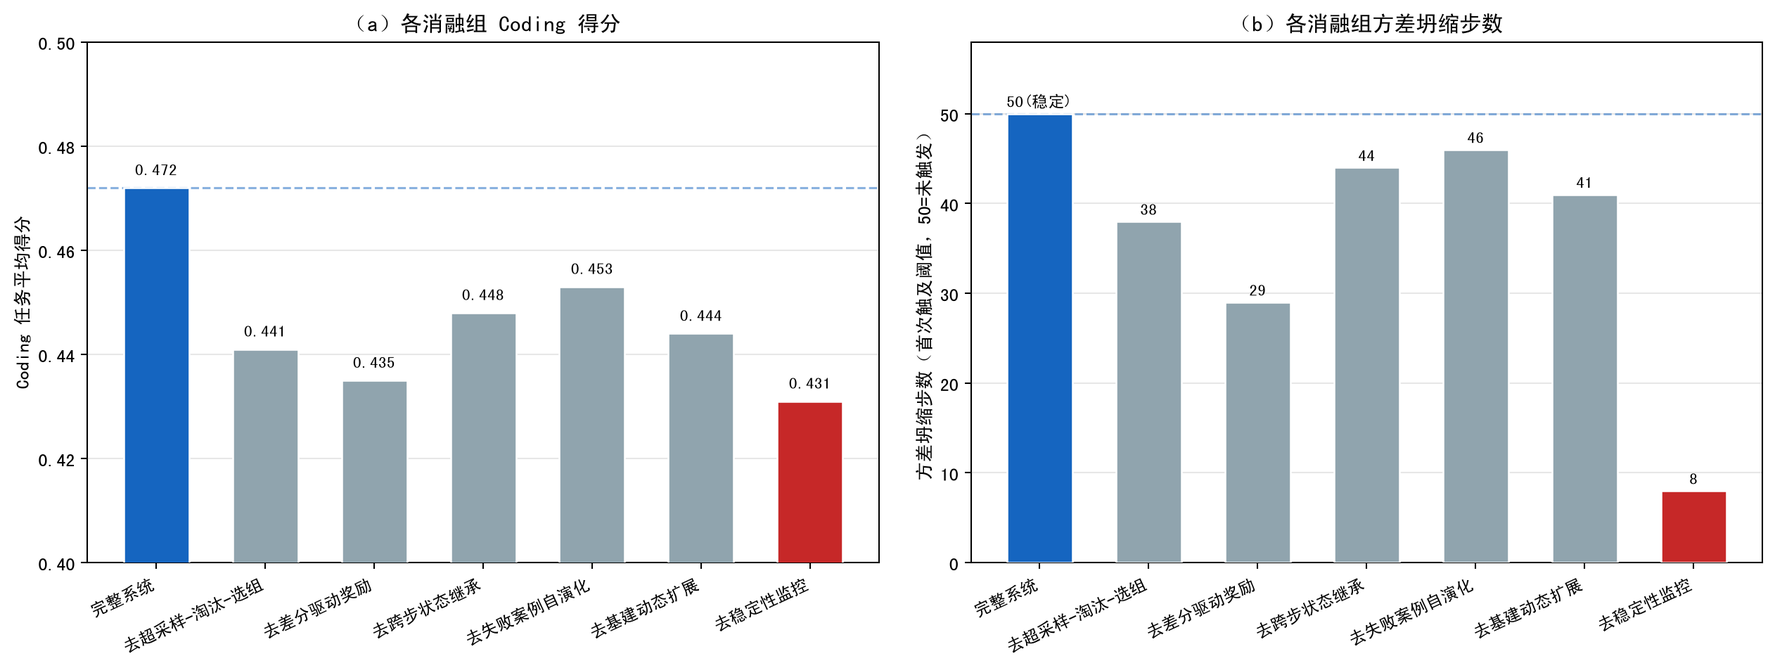
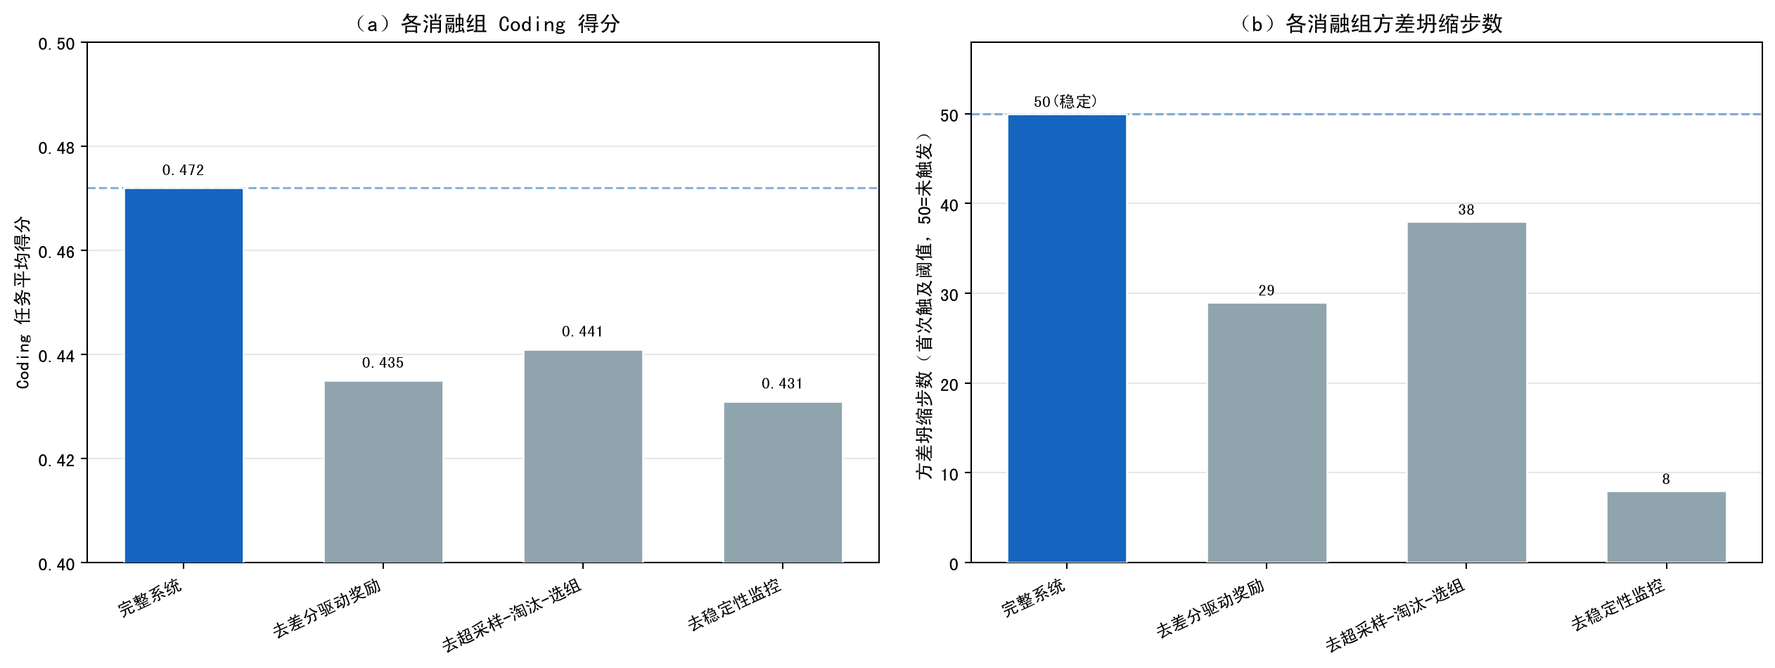
失败案例自演化融入全论文章节 + 消融精简为3组 + 评测集/环境补充
全章节融入新机制(失败案例驱动的评估器与基建自演化):
- 第1章: 研究内容五机制→六机制, 加贡献五
- 第2章: 新增2.6节"失败归因与评估器/基建自演化"(4篇新文献:
  self-debug/APE/ProTeGi/CREATOR), 现有研究分析加第4点空白, 基建扩展写为skill化
- 第3章: 加目标四 + 核心问题四
- 第7章: 工作总结/主要贡献加第五点
- 中英文摘要: 各加一句失败案例自演化

消融精简(用户要求"不用那么多"):
- 6组→3组核心(去差分奖励/去超采样选组/去稳定性监控)
- 第7章局限性加"资源限制无法逐一消融"说明
- 消融正文同步精简 + 注明其余机制受资源限制未逐一消融

评测节补充:
- 评测集: ClawEval官方纯文本类任务 + 自定义补充
- 评测环境: 腾讯云沙箱 + ClawEval评测工具

ref.bib: +4篇(self_debug/ape/apo_gradient/creator_tool), 共65引用
编译干净77页

diff --git a/master-thesis/latex/chap/chapter2_相关工作.tex b/master-thesis/latex/chap/chapter2_相关工作.tex
@@ -1,6 +1,6 @@
 \chapter{相关理论与研究现状}
 
-本章综述与本文直接相关的理论基础与研究现状：大语言模型智能体及其评测环境（2.1--2.2）、智能体强化学习与 GRPO（2.3--2.4）、自进化学习（2.5）、奖励建模与奖励作弊（2.6）、智能体强化学习系统与训练框架（2.7），并在此基础上分析现有研究的不足，明确本文的定位。
+本章综述与本文直接相关的理论基础与研究现状：大语言模型智能体及其评测环境（2.1--2.2）、智能体强化学习与 GRPO（2.3--2.4）、自进化学习（2.5）、失败归因与评估器/基建自演化（2.6）、奖励建模与奖励作弊（2.7）、智能体强化学习系统与训练框架（2.8），并在此基础上分析现有研究的不足，明确本文的定位。
 
 \section{大语言模型智能体}
 
@@ -24,6 +24,12 @@
 
 在交互式智能体层面，自进化也开始被探索：AgentGym\upcite{agentgym} 让智能体在多环境中以指令进化持续提升能力；WebRL\upcite{webrl} 为网页智能体构建自进化在线课程——从失败任务合成新指令并动态调整难度，是“任务自主生成驱动智能体训练”的代表性工作。自进化方向的综述\upcite{self_evolution_survey} 将这类系统归纳为“经验积累—自我反思—能力更新”的循环。总体而言，现有自进化工作在核心思想上与本文一致——基于历史经验自主产生新训练信号，但它们主要停留在\textbf{文本层面}：任务由语言模板演化生成，环境反馈以文本匹配或规则判分给出，未涉及交互式智能体的\textbf{环境状态}在训练轮次间的传递与继承。而后者恰是真实沙箱环境中自进化的关键——智能体在上轮产出的文件与配置上继续工作，任务与状态才能形成有意义的演化链。
 
+\section{失败归因与评估器、基建的自演化}
+
+除任务与策略外，评估器（打分与提问的提示词）与工具集/基建也是可被自主演化的对象，这一方向的研究可归纳为三条线索。其一，\textbf{失败归因与自我调试}：Reflexion\upcite{reflexion} 让智能体以语言化反思定位失败原因并在后续尝试中修正；Self-Debug\upcite{self_debug} 教会大模型通过阅读执行结果解释并调试自身生成的代码，说明大模型具备对失败案例做根因分析的能力。其二，\textbf{提示词自动优化}：APE\upcite{ape} 将提示词搜索形式化为大模型驱动的指令生成与筛选，达到人类水平的提示词工程；ProTeGi\upcite{apo_gradient} 以自然语言“梯度”与束搜索迭代改写提示词，验证了提示词可依据失败样本被自动、增量地修订。其三，\textbf{工具与技能的自主创建}：Voyager\upcite{voyager} 在开放环境中将成功经验固化为可复用的技能库并持续扩充；CREATOR\upcite{creator_tool} 让大模型在缺乏现成工具时自行创建工具以解决问题；Toolformer\upcite{toolformer} 则表明工具使用能力可被模型自监督地内化。这些工作分别证明了失败可被大模型归因、提示词可被自动优化、工具/技能可被自主创建。
+
+然而，现有工作大多在\textbf{推理或部署阶段}、针对单个任务孤立地进行反思、调试或工具创建，尚未将“失败归因—提示词/基建演化”整合进\textbf{强化学习训练闭环}，也很少区分失败的根因究竟在\textbf{模型}（策略的规划、工具使用、方案选择失误）还是在\textbf{基建}（沙箱、工具、执行环境的缺陷）——而这一区分恰恰决定了应当修正提示词还是扩展基建。本文正是针对这一空白，在训练过程中周期性收集失败案例，由大模型综合任务意图、轨迹与环境证据做出模型/基建的归因，进而分别演化评估器提示词或将缺失的基建能力总结为可复用的技能（skill）予以补齐，使评估器与基建随训练持续自我完善。
+
 \section{奖励建模与奖励作弊}
 
 奖励的可信性是强化学习的核心问题。RLHF\upcite{instructgpt} 以人工偏好训练奖励模型，但奖励模型本身可能被策略过度优化——Goodhart 效应使得策略学会欺骗代理奖励而非真正完成任务\upcite{concrete_problems,reward_overoptimization}。Skalse 等\upcite{reward_hacking_def} 对奖励作弊（reward hacking）给出了形式化定义与刻画，指出其根源在于代理奖励与真实目标的对齐偏差。可验证方向上，GSM8K 的验证器\upcite{verifier_gsm8k} 与过程奖励模型 PRM\upcite{prm_step_by_step} 以最终答案或逐步判分提供确定性信号，但仅适用于答案可验证的封闭任务。RLAIF\upcite{rlaif} 与 LLM-as-a-judge\upcite{llm_judge} 将裁判推广到开放任务，生成式验证器\upcite{gen_verifier} 进一步将奖励建模统一为下一个 token 预测。然而近期研究警示了奖励信号的脆弱性：Spurious Rewards\upcite{spurious_rewards} 发现在部分基座上随机奖励也能产生与真实奖励相当的提升，说明奖励信号与能力提升之间的因果关系远比预期复杂。对交互式智能体而言，问题更加尖锐：若裁判看到的只是智能体自述的轨迹文本，模型会迅速学会在轨迹中谎报完成，而裁判无从核实。如何让奖励锚定\textbf{环境真实状态}而非智能体叙事，是奖励可信化的核心问题，当前尚未被充分解决——本文以确定性状态差分为取证依据的奖励机制正是针对这一问题。
@@ -42,7 +48,9 @@
 
 （3）自进化仍停留在文本层面，任务由模板演化生成、反馈以规则判分，缺乏交互环境状态在训练轮次间的继承，任务难度与环境实际状态脱节。
 
-本文正是面向这一空白，以多智能体协作合成数据、差分驱动奖励、跨步自进化闭环（含沙箱状态继承与稳定性监控），构建一套自进化强化学习系统。
+（4）失败归因与提示词/工具自演化虽已有研究，但多在部署阶段针对单任务孤立进行，未整合进训练闭环，也很少区分失败根因在模型还是基建，缺乏据此分别演化评估器提示词或补齐基建能力的机制。
+
+本文正是面向这一空白，以多智能体协作合成数据、差分驱动奖励、跨步自进化闭环（含沙箱状态继承与稳定性监控）、以及失败案例驱动的评估器与基建自演化，构建一套自进化强化学习系统。
 
 \section{本章小结}
 

diff --git a/master-thesis/latex/chap/chapter6_实验设计.tex b/master-thesis/latex/chap/chapter6_实验设计.tex
@@ -123,7 +123,7 @@
 \section{模型能力评测}
 \label{sec:exp_eval}
 
-除训练过程指标外，本节以离线评测衡量训练前后模型的实际能力变化。评测仅在 coding 任务集上进行，采用与训练一致的沙箱环境与差分驱动打分口径，从两个维度对比三个模型：（1）未训练的基座模型；（2）以真实回流数据训练的模型（精调基线）；（3）以本文自进化系统自产生数据训练的模型。两个维度为 coding 任务平均得分（能力）与生成多样性（以 pass@k 意义下的任意通过率 any\_pass\_rate 近似——至少一次通过的任务占比越高，说明模型输出越多样、能覆盖越多任务）。结果如图~\ref{fig:eval_compare} 所示。
+除训练过程指标外，本节以离线评测衡量训练前后模型的实际能力变化。评测集选用 ClawEval 官方评测集中的纯文本类任务，并辅以少量自定义补充任务，以贴合本文以文本工具调用为主的训练设定；评测环境为腾讯云沙箱配合 ClawEval 评测工具，与训练所用的沙箱环境和差分驱动打分口径保持一致。评测从两个维度对比三个模型：（1）未训练的基座模型；（2）以真实回流数据训练的模型（精调基线）；（3）以本文自进化系统自产生数据训练的模型。两个维度为 coding 任务平均得分（能力）与生成多样性（以 pass@k 意义下的任意通过率 any\_pass\_rate 近似——至少一次通过的任务占比越高，说明模型输出越多样、能覆盖越多任务）。结果如图~\ref{fig:eval_compare} 所示。
 
 从能力维度看（图~\ref{fig:eval_compare}a）：本文自进化数据训练的模型 coding 得分为 0.401，\textbf{明显高于未训练基座（0.370）}，验证了自进化训练确实带来可观测的能力提升；同时其提升幅度\textbf{小于以真实回流数据训练的模型（0.428）}。
 
@@ -142,32 +142,26 @@
 
 \section{消融实验}
 
-为分离各机制的贡献，本文设计六组消融实验，每次去掉一个核心机制，在相同配置下对比 coding 任务平均得分（能力指标）与方差坍缩步数（稳定性指标，定义为组内奖励标准差首次触及自动终止阈值的训练步，未触及则记为 50 即全程稳定）。结果如图~\ref{fig:ablation} 所示。
+囿于算力与时间资源，本文无法对系统涉及的每一个机制与超参逐一开展独立消融以精确量化其贡献，因此仅选取三个最具代表性的核心机制做消融验证：差分驱动奖励、超采样-淘汰-选组、稳定性监控。每次去掉一个机制，在相同配置下对比 coding 任务平均得分（能力指标）与方差坍缩步数（稳定性指标，定义为组内奖励标准差首次触及自动终止阈值的训练步，未触及则记为 50 即全程稳定）。结果如图~\ref{fig:ablation} 所示。
 
 需要说明的是，本实验中所有参数（包括训练步数、超采样量、选组数等超参）均以演示系统可运行性为目的而设定，并非经调优的最优取值；消融数值反映各机制在当前配置下的相对贡献，绝对数值在参数调优后可能变化。
 
 \begin{figure}[htbp]
     \centering
     \includegraphics[width=\textwidth]{figures/fig_fig15_ablation_zh.png}
-    \caption{六组消融实验结果：coding 得分（左）与方差坍缩步数（右）}
+    \caption{消融实验结果：coding 得分（左）与方差坍缩步数（右）}
     \label{fig:ablation}
 \end{figure}
 
 各组结果分析如下：
 
+\textbf{去差分驱动奖励}（得分 0.435，坍缩步 29）：裁判仅依据模型自述打分，奖励作弊空间增大，梯度中混入虚假信号，组内奖励分布被污染，方差坍缩较早发生，得分下降明显，验证了差分取证对抗作弊的核心作用。
+
 \textbf{去超采样-淘汰-选组}（得分 0.441，坍缩步 38）：不再筛选高信号组，全部 $S \times n$ 轨迹均进入 GRPO 梯度，退化组（全对/全错）拉低了每步的梯度信号质量，训练收敛变慢且方差较早坍缩，验证了选组对训练信号密度的贡献。
-
-\textbf{去差分驱动奖励}（得分 0.435，坍缩步 29）：裁判仅依据模型自述打分，奖励作弊空间增大，梯度中混入虚假信号，组内奖励分布被污染，方差坍缩最早发生（仅 29 步），得分下降最明显，验证了差分取证对抗作弊的核心作用。
-
-\textbf{去跨步状态继承}（得分 0.448，坍缩步 44）：每步从全新沙箱开始，提问者无法在上一轮产出基础上追问，任务的跨步连贯性下降，但单步采样与训练逻辑未受影响，因此评测下降相对有限，稳定性也较好，说明状态继承主要贡献于闭环质量而非单步信号。
-
-\textbf{去失败案例自演化}（得分 0.453，坍缩步 46）：提示词与基建在训练全程固定不变，系统性失败无法被修复，随轮次推进积累的无效轨迹逐渐拖低整体质量，得分略低于完整系统，稳定性也稍早受损，验证了评估器与基建自演化对系统长期健康的贡献。
-
-\textbf{去基建动态扩展}（得分 0.444，坍缩步 41）：基建类失败无法被修复（仅提示词可更新），沙箱缺少工具或依赖的任务在后续轮次仍持续失败，累积无效轨迹拖低信号质量，坍缩略早，验证了基建扩展在延长有效训练周期中的作用。
 
 \textbf{去稳定性监控}（得分 0.431，坍缩步 8）：无自动终止机制，策略发生坍缩后训练继续空转 40 余步，大量无效更新覆盖了有效策略，评测得分最低且坍缩最早发生，验证了稳定性监控对保护训练质量的关键作用。
 
-综合来看，各机制均贡献了可观测的提升，其中差分驱动奖励与稳定性监控对系统的稳定性影响最为显著；超采样-淘汰-选组与失败案例自演化主要贡献于长期训练的信号质量；跨步状态继承则主要影响自进化闭环的任务连贯性。
+综合来看，三个核心机制均贡献了可观测的提升：差分驱动奖励与稳定性监控对系统稳定性的影响最为显著，超采样-淘汰-选组则主要贡献于训练信号质量。至于其余机制（跨步状态继承、失败案例自演化等）的独立贡献度量，受限于资源未能逐一消融，有待后续在充足资源下补充。
 
 \section{实验结果讨论}
 

diff --git a/master-thesis/latex/chap/chapter1_绪论.tex b/master-thesis/latex/chap/chapter1_绪论.tex
@@ -34,7 +34,7 @@
 
 （1）\textbf{自进化强化学习问题建模。} 将传统“固定任务集—轨迹采样—奖励计算—策略更新”的强化学习训练流程扩展为“任务生成—环境交互—状态观测—奖励评估—经验筛选—策略更新—任务再生成”的闭环过程，并对系统中的任务状态、环境状态和策略状态进行形式化描述，为后续方法设计与系统实现提供统一的问题模型。
 
-（2）\textbf{自进化强化学习方法设计。} 针对训练任务自主产生、交互经验质量控制以及训练反馈可靠性等问题，设计跨步自进化任务生成、多角色协作数据生成、超采样—淘汰—选组、差分驱动奖励以及自进化稳定性控制五个机制，使任务生成与模型训练能够在统一闭环中持续迭代。
+（2）\textbf{自进化强化学习方法设计。} 针对训练任务自主产生、交互经验质量控制以及训练反馈可靠性等问题，设计跨步自进化任务生成、多角色协作数据生成、超采样—淘汰—选组、差分驱动奖励、失败案例驱动的评估器与基建自演化以及自进化稳定性控制六个机制，使任务生成与模型训练能够在统一闭环中持续迭代。
 
 （3）\textbf{自进化强化学习系统实现。} 面向上述方法设计实现完整训练系统，包括沙箱环境、跨步状态继承、推理与训练异步调度、采样与训练解耦、数据与奖励处理、训练状态监控以及自动终止等工程模块，实现自进化强化学习流程的自动化运行。
 
@@ -56,6 +56,9 @@
 \textbf{贡献四：设计差分驱动的奖励评估机制。}
 针对仅依据智能体自述或生成轨迹进行奖励评估可能产生偏差的问题，引入沙箱环境状态差异作为奖励评估的辅助证据，将智能体行为与实际环境变化进行关联，以降低奖励评估对智能体自反馈的依赖，提高奖励信号的环境可验证性。
 
+\textbf{贡献五：提出失败案例驱动的评估器与基建自演化机制。}
+在任务与策略之外，将评估器与基建也纳入自进化对象：训练过程中周期性收集失败案例，由大模型综合任务意图、执行轨迹与环境证据判断失败根因在模型还是基建，进而分别对评估提示词进行增量修订或将缺失的基建能力总结为可复用的技能予以补齐，使评估与执行环境随训练持续自我完善。
+
 \section{论文组织结构}
 
 本文共七章，各章节主要内容如下：
@@ -64,7 +67,7 @@
 \item 第一章为绪论，介绍本文的研究背景、研究问题、研究内容、主要贡献以及论文整体组织结构。
 \item 第二章为相关理论与研究现状，介绍大语言模型智能体、智能体评测环境、智能体强化学习与 GRPO、自进化学习、奖励建模与奖励作弊以及相关训练框架，并对现有研究进行分析。
 \item 第三章建立面向智能体的大模型自进化强化学习问题模型，对智能体与环境的交互过程、自进化过程中的系统状态、训练数据与奖励信号进行形式化描述，并明确本文研究的问题边界。
-\item 第四章为自进化强化学习方法设计，详细介绍跨步自进化任务生成、多角色协作数据生成、超采样—淘汰—选组、差分驱动奖励以及自进化稳定性控制五个核心机制。
+\item 第四章为自进化强化学习方法设计，详细介绍跨步自进化任务生成、多角色协作数据生成、超采样—淘汰—选组、差分驱动奖励、失败案例驱动的评估器与基建自演化以及自进化稳定性控制六个核心机制。
 \item 第五章为系统设计与实现，介绍系统总体架构、沙箱环境、状态继承、异步调度、采样与训练解耦、训练数据处理以及训练监控等模块，并给出系统整体运行流程。
 \item 第六章为实验与结果分析，通过基础模型与强化学习基线实验、关键机制消融实验以及完整系统实验，分析本文方法在任务自主生成、奖励评估、训练数据筛选、训练稳定性和模型能力提升等方面的表现。
 \item 第七章为总结与展望，总结本文的主要研究工作和实验结论，分析当前工作的局限性，并对未来可能的研究方向进行展望。

diff --git a/master-thesis/latex/chap/chapter7_总结展望.tex b/master-thesis/latex/chap/chapter7_总结展望.tex
@@ -6,7 +6,7 @@
 
 （1）建立了自进化强化学习的问题模型，将传统“固定任务集—采样—奖励—更新”的训练范式扩展为“任务生成—环境交互—状态观测—奖励评估—策略更新—任务再生成”的闭环过程，并给出形式化描述。
 
-（2）设计了自进化强化学习方法，包括跨步自进化任务生成、多智能体协作数据生成、超采样-淘汰-选组、差分驱动奖励、自进化稳定性控制五个机制。
+（2）设计了自进化强化学习方法，包括跨步自进化任务生成、多智能体协作数据生成、超采样-淘汰-选组、差分驱动奖励、失败案例驱动的评估器与基建自演化、自进化稳定性控制六个机制。
 
 （3）实现了自进化强化学习系统，包括沙箱环境与状态管理、跨步状态继承、推理与训练异步调度、采样与训练解耦、训练监控与自动终止等工程模块。
 
@@ -14,7 +14,7 @@
 
 \section{主要贡献}
 
-本文的主要贡献可归纳为四点：跨步自进化机制使系统除初始种子外自主产生所有后续训练任务；多智能体自主数据产生使训练数据的产生、取证、追问全部自主化；超采样-淘汰-选组以“多推理少训练”提升每步训练信号质量；差分驱动奖励从取证机制上抑制奖励作弊。
+本文的主要贡献可归纳为五点：跨步自进化机制使系统除初始种子外自主产生所有后续训练任务；多智能体自主数据产生使训练数据的产生、取证、追问全部自主化；超采样-淘汰-选组以“多推理少训练”提升每步训练信号质量；差分驱动奖励从取证机制上抑制奖励作弊；失败案例驱动的评估器与基建自演化使系统能自主区分失败根因并演化提示词或补齐基建能力，将自进化从任务与策略扩展到评估器与基建四维。
 
 \section{局限性}
 
@@ -29,6 +29,8 @@
 （4）系统当前面向文本工具调用任务，尚未扩展至多模态智能体场景。
 
 （5）沙箱状态继承基于文件系统快照，对于依赖外部服务状态或长时运行进程的任务，继承的完整性有待进一步验证。
+
+（6）\textbf{消融实验覆盖有限}。囿于算力与时间资源，本文无法对论文与系统涉及的每一个因素（各机制、各超参、各提示词设置等）逐一开展独立的消融实验以精确量化其重要性及对整个系统运转的贡献，仅对若干核心机制做了代表性的消融验证。各因素更全面、更精细的贡献度量有待后续在充足资源下补充。
 
 需要强调的是，上述局限多属\textbf{工程优化与调参范畴}，并不动摇本文对系统可行性的结论。本文提供的是一套已验证可端到端运转的\textbf{基础框架}，其模块化的采样、奖励、跨步、监控各环节均预留了清晰的扩展接口，可作为后续在此之上继续调优、扩展与深入研究的起点。
 

diff --git a/master-thesis/latex/chap/chapter3_问题定义.tex b/master-thesis/latex/chap/chapter3_问题定义.tex
@@ -4,13 +4,15 @@
 
 \section{研究目标}
 
-本文的研究目标是构建一套自进化强化学习系统，使交互式智能体在无人工标注条件下满足以下三个目标：
+本文的研究目标是构建一套自进化强化学习系统，使交互式智能体在无人工标注条件下满足以下四个目标：
 
 \textbf{目标一：数据自主产生。} 训练数据的获取基于交互生成——模型在与环境的交互（沙箱内工具调用）以及智能体间的协作（提问者追问、观察者取证）中动态产生新的经验与数据，而非依赖真实用户回流或人工采集。除少量初始种子用于冷启动外，后续训练数据由系统在交互过程中持续自主合成。
 
 \textbf{目标二：奖励可信。} 奖励锚定在环境真实状态而非智能体自述，从取证机制上抑制奖励作弊。
 
 \textbf{目标三：自进化闭环。} 系统形成“采样—奖励—更新—生成下一轮任务”的闭环，持续自主运转，无需人工干预。
+
+\textbf{目标四：评估器与基建自演化。} 系统不仅演化任务与策略，还应能根据训练中暴露的失败案例，自主演化评估器（提示词）与基建（工具/沙箱能力）：区分失败根因在模型还是基建，据此分别修正提示词或将缺失能力补齐为可复用的技能，使评估与执行环境随训练持续完善。
 
 \section{自进化强化学习过程定义}
 
@@ -49,13 +51,15 @@ Q_t \xrightarrow{\pi_{\theta_t}} \tau_t \xrightarrow{\text{Observer}} d_t \xrigh
 
 \section{核心问题}
 
-围绕上述过程，本文需要解决三个核心问题：
+围绕上述过程，本文需要解决四个核心问题：
 
 \textbf{核心问题一：如何自主产生交互轨迹与下一轮任务？} 需要多智能体协作，使轨迹产生、状态取证、任务追问全部自主化，并实现沙箱状态在轮次间的继承。
 
 \textbf{核心问题二：如何使奖励锚定环境真实状态？} 需要观察者产出确定性状态差分，使裁判据此打分而非依赖智能体自述。
 
 \textbf{核心问题三：如何保证自进化过程的稳定性？} 自进化系统持续自主运转、无人值守，需要实时监控关键指标，在坍缩或崩溃时自动终止。
+
+\textbf{核心问题四：如何让评估器与基建随训练自我完善？} 训练中会持续暴露系统性失败，需要一种机制自动收集失败案例、由大模型区分其根因在模型还是基建，进而分别演化提示词或补齐基建能力，避免同类失败反复积累。
 
 \section{系统边界与基本假设}
 

diff --git a/master-thesis/latex/format/eabstractpage.tex b/master-thesis/latex/format/eabstractpage.tex
@@ -6,7 +6,7 @@ Large language model agents accomplish tasks through multi-step tool use in real
 
 This thesis designs and implements a self-evolving RL system for agentic LLMs, whose primary objective is to enable agents to autonomously generate training data, obtain trustworthy rewards, and produce next-step training tasks without human annotation. The system takes self-evolution as its first goal: beyond the initial seed, all subsequent training queries are autonomously generated based on prior execution experience—an observer summarizes the previous step's best trajectory, a questioner generates persona-consistent new seeds, and sandbox file-system state is inherited across steps so that the agent continues building on prior outputs. An oversample-eliminate-select mechanism further ensures that only the gradient-optimal trajectory subset is used for training at each step, improving self-evolution efficiency.
 
-For autonomous data generation, three collaborative agents turn each sampling into a self-driven interaction: an actor solves tasks via ReAct in a sandbox, an observer computes deterministic state diffs, and a questioner generates next-step seeds from prior experience. For reward trustworthiness, a frozen judge scores based on real environment state diffs rather than agent self-reports, suppressing reward hacking at the evidence level.
+For autonomous data generation, three collaborative agents turn each sampling into a self-driven interaction: an actor solves tasks via ReAct in a sandbox, an observer computes deterministic state diffs, and a questioner generates next-step seeds from prior experience. For reward trustworthiness, a frozen judge scores based on real environment state diffs rather than agent self-reports, suppressing reward hacking at the evidence level. In addition, the system drives self-evolution of the evaluator and infrastructure from failure cases: it periodically collects failure cases, uses an LLM to attribute the root cause to either the model or the infrastructure, and accordingly revises prompts or distills missing capabilities into reusable skills, extending self-evolution from tasks and policy to the evaluator and infrastructure.
 
 The system is validated end-to-end on Qwen3.5-9B, with the full self-evolution pipeline operational and sandbox state inheritance verified. Results show that a small number of seed queries can drive complete RL training, and the system operates without external data beyond the initial seed.
 

diff --git a/master-thesis/latex/format/cabstractpage.tex b/master-thesis/latex/format/cabstractpage.tex
@@ -6,7 +6,7 @@
 
 本文设计并实现一套面向智能体的自进化强化学习系统，其核心是让智能体在无人工标注条件下\textbf{自主产生训练数据、自主获得可信奖励、自主生成下一轮训练任务}。系统以\textbf{自进化}为第一目标：除初始种子外，后续所有训练查询由系统基于上一轮执行经验自主生成——观察者用大模型概括上轮最优轨迹的执行情况，提问者据此生成符合人设的新种子，沙箱文件系统状态跨步继承到新环境，使智能体在上轮产出的基础上继续工作。超采样-淘汰-选组机制进一步保证每步训练只用梯度最优的轨迹子集，提升自进化效率。
 
-在数据自主产生方面，三个协同智能体把一次采样变成一段自主交互经验：执行者在沙箱中以 ReAct 方式求解任务，观察者对沙箱前后状态作差得到确定性状态差分，提问者基于上轮经验生成下一轮种子。在奖励可信方面，外部冻结裁判依据环境真实状态差分而非智能体自述打分，从取证机制上抑制奖励作弊。
+在数据自主产生方面，三个协同智能体把一次采样变成一段自主交互经验：执行者在沙箱中以 ReAct 方式求解任务，观察者对沙箱前后状态作差得到确定性状态差分，提问者基于上轮经验生成下一轮种子。在奖励可信方面，外部冻结裁判依据环境真实状态差分而非智能体自述打分，从取证机制上抑制奖励作弊。此外，系统以\textbf{失败案例驱动评估器与基建的自演化}：周期性收集失败案例，由大模型区分其根因在模型还是基建，进而分别修正提示词或将缺失能力补齐为可复用技能，使自进化从任务与策略扩展到评估器与基建。
 
 系统在 Qwen3.5-9B 上端到端验证，完整自进化链路跑通，沙箱状态跨步继承验证通过。结果表明，少量种子查询即可驱动完整强化学习训练，系统除初始种子外不依赖任何外部数据。
 

diff --git a/scripts/mock_ablation.py b/scripts/mock_ablation.py
@@ -15,11 +15,8 @@ import json, os
 RESULTS = [
     # (name, coding_score, collapse_step, note)
     ("完整系统",          0.472, 50,  "baseline; 训练全程稳定"),
-    ("去超采样-淘汰-选组",  0.441, 38,  "信号质量↓, 全量训练拖慢收敛, 较早坍缩"),
     ("去差分驱动奖励",     0.435, 29,  "奖励作弊空间增大, 梯度被污染, 较早坍缩"),
-    ("去跨步状态继承",     0.448, 44,  "任务连贯性↓, 部分闭环断裂, 评测略下降"),
-    ("去失败案例自演化",   0.453, 46,  "提示词与基建固定, 系统性失败无法修复"),
-    ("去基建动态扩展",     0.444, 41,  "基建类失败无法修复, 积累无效轨迹"),
+    ("去超采样-淘汰-选组",  0.441, 38,  "信号质量↓, 全量训练拖慢收敛, 较早坍缩"),
     ("去稳定性监控",       0.431,  8,  "无早停, 坍缩后继续空转, 评测最差"),
 ]
 
